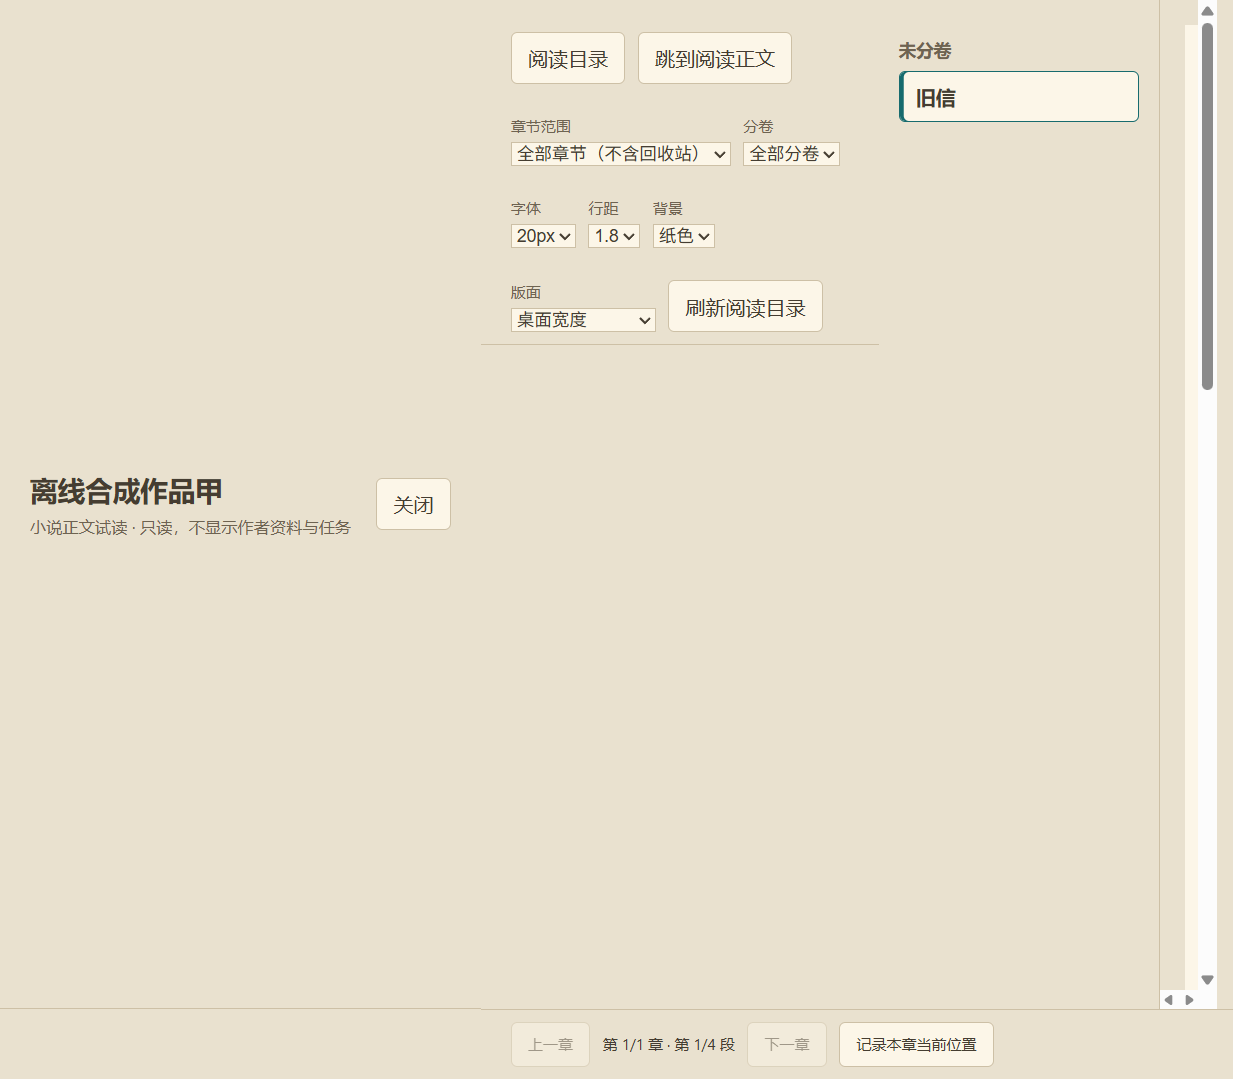
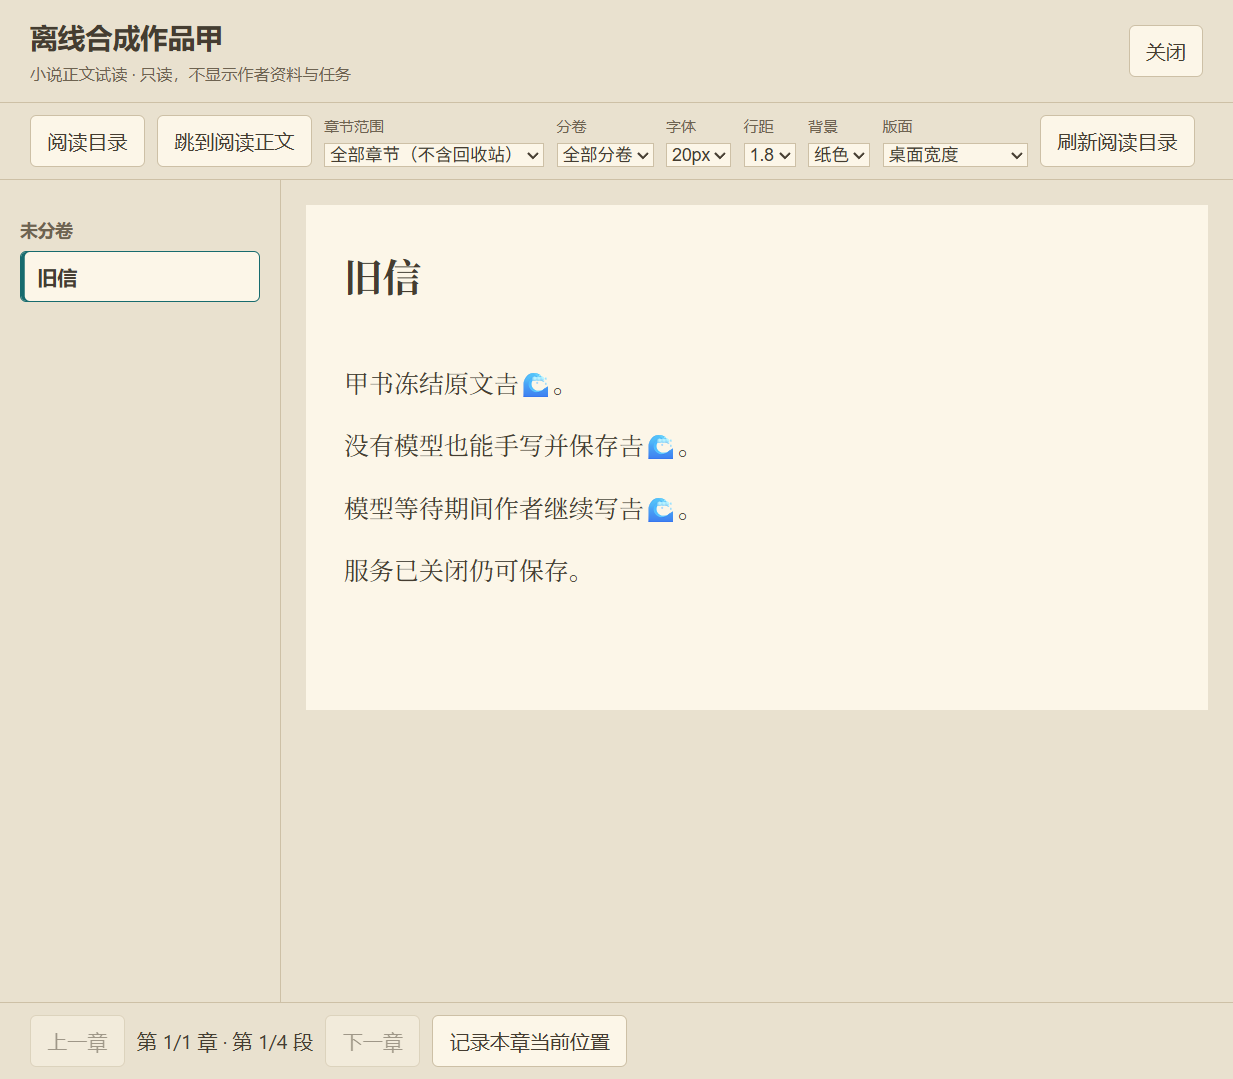
fix: keep narrow reader layout independent of the assistant footer

diff --git a/apps/workbench/style.css b/apps/workbench/style.css
@@ -530,7 +530,7 @@ p {
 }
 .empty-chapter p { max-width: 32em; padding: 0 16px; line-height: 1.7; }
 .empty-story-actions { display: flex; justify-content: center; flex-wrap: wrap; gap: 10px; margin: 18px 12px; }
-footer {
+.app > footer {
   grid-column: 2/5;
   grid-row: 3;
   display: flex;
@@ -746,7 +746,7 @@ footer {
     grid-template-columns: 64px 215px minmax(340px, 1fr);
   }
   .top,
-  footer,
+  .app > footer,
   .library {
     grid-column: 2/4;
   }
@@ -1023,7 +1023,7 @@ footer {
     display: none;
   }
   .show-inspector .top,
-  .show-inspector footer,
+  .show-inspector > footer,
   .show-inspector .library {
     grid-column: 2/5;
   }

diff --git a/iterations/stage-008/WORKLOG.md b/iterations/stage-008/WORKLOG.md
@@ -2,6 +2,8 @@
 
 ## alpha.26 离线写作增量
 
+第三轮机器151项passed，安装10717/重装17894/卸载5138ms；查看实际窄屏阅读图发现正文屏外，撤销候选本机资格，不发标签。根因.show-inspector footer把阅读内footer置2/5列，作用域收紧到工作台直接子footer。最初几何探针也放过0宽正文，补可用行宽后实际红灯重现；修复源码同986×863/1.25下段落661.4×36，四段可见、无横向溢出，截图已查看。全部坏图/机器passed/复现回执保留，准备新候选重新完整安装与升级，不能继承旧151资格。见assessments/release/v0.1.0-alpha.26/reader-layout-failure/README.md。
+
 QA补强：整库保护候选第二轮安装10199ms，流式和离线四组通过，独立PDF解析因通用Python缺pdfplumber失败；保留回执/原日志，自身路径/asar/UninstallString核对后卸载，不误称应用PDF失败。增加安装前独立文档依赖预检；配置独立QA Python后第三轮全套重验，新增实际EXE备份边界四组也接入安装/源码CI/发行CI和同asar清单门禁。CI可明确允许同磁盘并记录事实，本机独立磁盘默认仍强制，不把不同盘符当物理独立。
 
 复评状态：LIB-08/OPS-05/OPS-06/OPS-07已有代码与部分运行证据，由planned转in-progress，未晋升verified；总计26 verified/44 in-progress/36 planned，106项范围不变。完整增量备份方案见design/incremental-backup.md，仍是待实现草案。生产源码5870883的CI40097159829完整success；后续仅QA/文档门禁增强另行提交重验。

diff --git a/assessments/release/v0.1.0-alpha.26/reader-layout-failure/README.md b/assessments/release/v0.1.0-alpha.26/reader-layout-failure/README.md
@@ -1,0 +1,9 @@
+# 阅读布局缺陷与资格撤销
+
+源码5870883候选的第三轮机器检查151项passed，安装10717ms、重装17894ms、卸载5138ms；完整原稿精确保留、EXE/注册项移除。但查看安装截图发现：986×863内容视口、参考面板展开后进入独立阅读，头部/控制栏/目录变成多个隐式列，正文被挤到屏外。故撤销本机候选安装资格，未据机器passed创建发行标签或升级资格。
+
+原因：工作台窄屏选择器.show-inspector footer匹配了阅读弹层内的footer，将grid-column:2/5施加给阅读网格，创建隐式列。阅读页自己的类选择器不能覆盖更高特异度。修正为只作用工作台直接子footer，并同步限制基础和普通窄屏footer规则，避免其他模态页继承布局。
+
+新探针先检查DOM文本、边界与dialog.scrollWidth，仍曾错误放过宽度为0的正文段落；这些条件不能证明可读。补正文最小可用行宽检查后，未修正样式的实际源码重现失败（段落宽0、竖排324高、右侧屏边），回执reproduced-zero-width.json保留。修复后实际同视口段落宽661.4、高36，阅读主体657.2高，四段可见且无横向溢出，已查看更新截图。该断言进入离线源码与安装门禁，不通过更改阈值掩盖布局问题。
+
+所有旧机器passed回执和坏图保留；修复候选必须重新构建、独立阅读回归、完整安装/重装/卸载及旧版升级，不能继承被撤销资格。alpha.25已公开版本不在此文档中冒称同场景修复完成。
